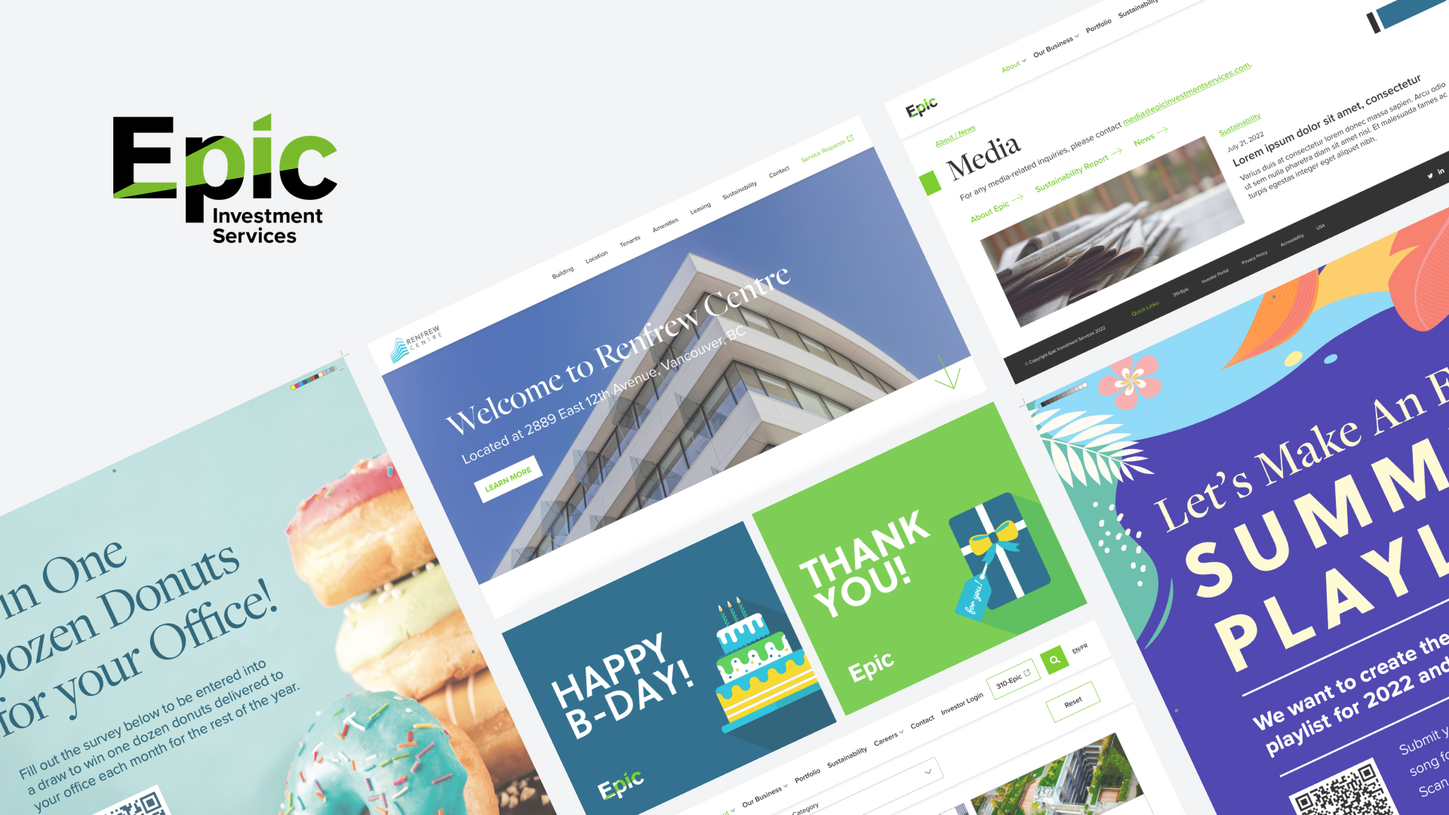
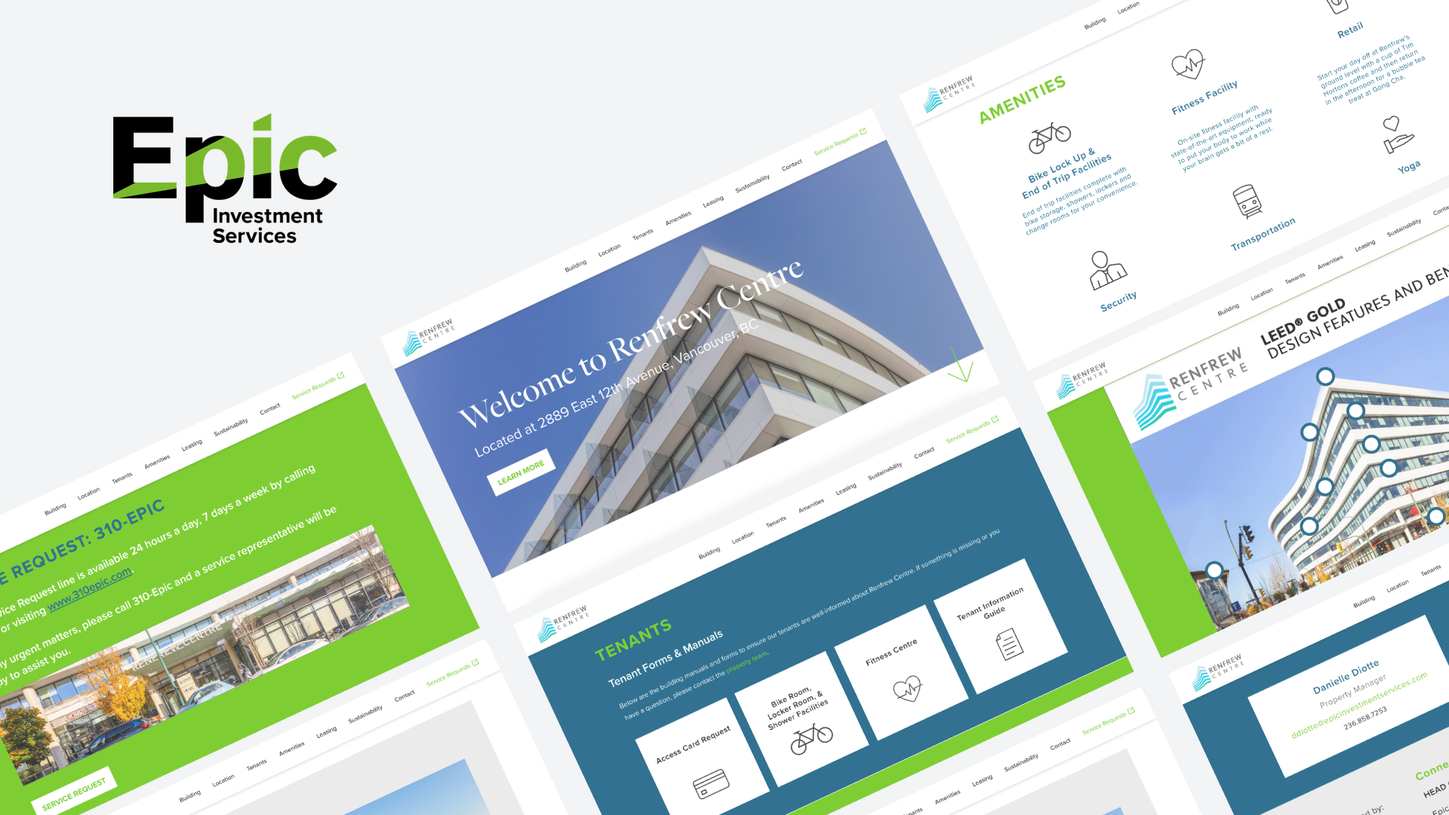
Updated the Epic page amongst other pages

diff --git a/epic.html b/epic.html
@@ -46,7 +46,7 @@
         </header>
 
         <div class = "container text-left">
-            <h1>Epic Investment Services</h1>
+            <h1>Epic Investment Services: Renfrew Centre Website</h1>
             <br>
             <img src = "media/epicCover.jpg" class = "amacssCoverPic">
             <hr>
@@ -63,21 +63,19 @@
                 <h4>Skills</h4>
                 <ul style = "list-style-type:none;">
                     <li>Branding</li>
-                    <li>Graphic Design</li>
-                    <li>Prototpying</li>
+                    <li>Prototyping</li>
                     <li>UI/UX Design</li>
+                    <li>Web Design</li>
                 </ul>  
             </div>
             <div class = "column1">
                 <h4>Tools</h4>
                 <ul style = "list-style-type:none;">
-                    <li>InDesign</li>
-                    <li>Photoshop</li>
+                    <li>Illustrator</li>
                     <li>Adobe XD</li>
-                    <li>Wordpress</li>
                 </ul>  
             </div>
-            <br><br><br><br><br><br><br><br>
+            <br><br><br><br><br><br><br>
             <hr>
             <br><br>
             <p>
@@ -87,16 +85,110 @@
                 In this role, I designed various graphics, branded merch, wayfinding signage, and web pages. I had the opportunity to work on multimedia projects with a dedicated team and gained valuable experience in corporate design + branding.
             </p>
             <br><br>
-            <h2>Renfrew Centre website</h2>
+            <h2>Introduction - Renfrew Centre</h2>
             <br>
             <p>
-                One of the highlights of my co-op at Epic was redesigning the website for the Renfrew Centre, one of Epic's retail properties. I had the chance to lead the redesign from conception to creating the final prototype.
-                During the length of this project, I worked closely with the property manager, VP of Marketing and Communications, and developer.
+                One of the highlights of my co-op at Epic was redesigning the website for the Renfrew Centre, one of Epic's properties. I had the chance to lead the redesign from conception to designing the final prototype.
+                During the length of this project, I worked closely with the Property Manager (PM), VP of Marketing & Communications, Communications Specialist, and Developer.
+            </p>
+            <br><br>
+            <h2>Problem</h2>
+            <br>
+            <p>
+                There were two main problems that we were tackling with the Renfrew Centre: <br><br>1) <b><b>Revitalization of Renfrew's image</b></b><br>2) <b><b>Website redesign</b></b><br><br>
+                First, we were looking to modernize Renfrew's image. To do this, we discussed different elements from the colour palette to the different fonts to be used. 
+                I also redesigned the logo to simplify it while retaining a core part of what makes Renfrew so recognizable, which is its unique building silhouette. 
+                However, it was also important to tie in the Epic branding into the website so that it was clear that this is an Epic property site.
+                <br><br>Second, the existing Renfrew website was due for a redesign. Tenants could not find the information they were looking for, and the visual design of the website did not align with the Epic branding.
+            </p>
+            <br><br>
+            <h2>Process</h2>
+            <br>
+            <p>For this project, I followed a five-step process as follows:</p>
+            <img src = "media/epic-process.jpg" class = "amacssCoverPic">
+            <h2>Research</h2>
+            <br>
+            <p>
+                In discussions with the PM, she helped us to narrow down 3 key areas that she noticed tenants had pain points with.
+                These became the main insights that we aimed to address with the new design.
             </p>
             <br>
-            <p>If you're interested in checking out the final product, you can visit the website <a href = "https://renfrewcentre.ca" target = "_blank">here</a>!</p>
+            <img src = "media/epic-insights.jpg" class = "amacssCoverPic">
+            <h5>Competitive analysis</h5>
+            <br>
+            <p>
+                Beyond speaking with the PM as a proxy for speaking with tenants directly for their feedback, we also examined existing Epic property sites to observe common features
+                as well as the order that information was presented.
+                <br><br>
+                Specifically, I looked at the websites for Centre 10 and HSBC Place, two other Epic properties. From exploring both sites, I noted the following key takeaways:
+                <br><br>- <b><b>Similar menu bar</b></b>: the content can be broken down into information about the building, tenants, sustainability, etc.
+                <br>- <b><b>Differing complexities</b></b>: the Centre 10 website was a single-page scroll with anchors at different sections while the HSBC Place website had different pages to separate the content
+                <br>- <b><b>Epic branding</b></b>: in addition to using Epic colours and fonts, the brand icons were also used throughout both websites, particularly in the sustainability section
+            </p>
             <br><br>
-            <h2>Other projects</h2>
+            <h5>Problem statement</h5>
+            <br>
+            <p>With the research complete, a problem statement was created to help guide the rest of the design process:</p>
+            <br>
+            <p style = "text-align:center;"><i>How might we reimagine the Renfrew Centre website so that it is more intuitive to navigate and engaging to tenants?</i></p>
+            <br><br>
+            <h2>Ideation</h2>
+            <br>
+            <p>
+                One of the main objectives of this project was to enhance the navigation experience for users. The old site not only had outdated information 
+                but it was also difficult for tenants to find the section of information that they were looking for, as noted by the PM.
+            </p>
+            <br><br>
+            <h5>Single- or multi-page?</h5>
+            <br>
+            <p>
+                Therefore, one of the first decisions to be made was whether to stick with a single-page scroll or switch to a multi-page design. Ultimately, <b><b>simplicity was highly valued</b></b> for this project. 
+                <br><br>
+                Other factors that were considered included the subject of the website and the ease of moving from one section of information to another. Since this website was focused solely on one subject, the Renfrew Centre, 
+                separating the limited content into multiple pages wasn't necessary as the content could be condensed onto a single page. Additionally, the use of a fixed menu bar and a single-page scroll allows the user to navigate from 
+                one section of information to another more quickly without loading a new page.
+            </p>
+            <br><br>
+            <h5>Lo-fi wireframes</h5>
+            <br>
+            <p>
+                Following the decision to use a single-page scroll design, I had a brief idea of the layout of the website from the other Epic sites, so I sketched some low-fidelity wireframes on paper.
+            </p>
+            <br><br>
+            <h2>Prototype</h2>
+            <br>
+            <p>
+                The high-fidelity prototype was created on XD and several iterations of the website were presented to stakeholders. If you'd like to play around with one of these iterations, 
+                you can check out one of the prototypes <a href = "https://xd.adobe.com/view/7e72a8e4-78ce-4f71-94e5-96f57cdc53e5-2b21/?fullscreen" target = "_blank">here</a>!
+                <br><br>
+                A few parts of the website that I wanted to highlight:
+            </p>
+            <img src = "media/epic-proto1.jpg" class = "amacssCoverPic">
+            <img src = "media/epic-proto4.jpg" class = "amacssCoverPic">
+            <img src = "media/epic-proto2.jpg" class = "amacssCoverPic">
+            <img src = "media/epic-proto3.jpg" class = "amacssCoverPic">
+            <h2>Development</h2>
+            <br>
+            <p>
+                Although my co-op work term ended before the development stage fully started, I was able to finish the final iteration of the design and hand it off.
+                If you're interested in checking out the newly designed Renfrew Centre website, you can visit it <a href = "https://renfrewcentre.ca" target = "_blank">here</a>!
+            </p>
+            <br><br>
+            <h2>Reflection</h2>
+            <br>
+            <p>
+                This was my first time leading a design project end-to-end while working with a cross-functional team as the sole designer. Through this experience, I was able to practice aligning my designs to fit business needs and objectives.
+                This project also gave me the creative freedom to completely redesign a website within corporate brand guidelines, which was a new and insightful experience for me as well.
+                <br><br> 
+                Overall, I'm super grateful for the trust that my manager put into me for taking this project on, and it was really great to see the finished website and how closely it resembled my design :)
+            </p>
+            <br><br>
+            <h2>Other projects from that summer</h2>
+            <br>
+            <p>
+                Beyond the Renfrew redesign, I also had the chance to work a variety of other projects, such as reimagining the Epic corporate site, 
+                designing company greeting cards, and creating graphics for Epic's many events.
+            </p>
             <br>
             <div class = "illo">
                 <img src = "media/epic-media1.png">
@@ -110,8 +202,10 @@
             <h2>Thank you 💚</h2>
             <br>
             <p>
-                To Jessica, my manager, for providing numerous opportunities to me and supporting my growth. To Jenny for her incredible patience and guidance. To the entire Marketing & Comms team for making my summer so enjoyable!  
+                To Jessica, my manager, for providing numerous opportunities to me and supporting my growth. To Jenny for her incredible patience and guidance. 
+                To the entire Marketing & Comms team for making my summer so enjoyable!
             </p>
+            <br>
         </div>
         <br><br>
         

diff --git a/groo.html b/groo.html
@@ -103,7 +103,7 @@
             <img src = "media/process.jpg" class = "amacssCoverPic">
             <h2>Research</h2>
             <br>
-            <p> Next, with a problem narrowed down, I completed a competitive analysis and conducted both quantitative and qualitative research to gain a better understanding of the problem at hand.</p>
+            <p> Next, with a problem narrowed down, I completed a competitive analysis and conducted both quantitative and qualitative research to validate the problem at hand.</p>
             <br>
             <h5>Survey</h5>
             <br>
@@ -135,11 +135,11 @@
             <br>
             <p>
                 From the competitive analysis, I realized that there were apps on the market that offered a gamified experience in managing personal finances. However, while researching for the analysis above, I came across
-                numerous complaints from users that they had to make <b>small purchases on the app in order to enjoy the full gamified experience</b> which went against the nature of the app as a budgeting tool.
+                numerous complaints from users that they had to make <b><b>small purchases on the app in order to enjoy the full gamified experience</b></b> which went against the nature of the app as a budgeting tool.
                 <br><br>
-                Additionally, users often value a <b>simple and intuitive user interface</b> as it allows for them to interact with the app more easily.
+                Additionally, users often value a <b><b>simple and intuitive user interface</b></b> as it allows for them to interact with the app more easily.
                 <br><br>
-                Finally, although there was some discontentment with manually tracking each expense, users also appreciated how they were <b>not required to connect their bank account</b> to the app, which some felt was unsecure.
+                Finally, although there was some discontentment with manually tracking each expense, users also appreciated how they were <b><b>not required to connect their bank account</b></b> to the app, which some felt was unsecure.
             </p>
             <br><br>
             <h5>User persona</h5>
@@ -166,14 +166,14 @@
             <p>To help better identify what features were needed, I created a few user stories based on the comments and feedback I gathered during the interviews.</p>
             <img src = "media/stories.jpg" class = "amacssCoverPic">
             <p>
-                In order to visualize the progress that the user was making, I went with a plant theme so that the user will be <b>collecting various plants to build their "forest"</b>.
+                In order to visualize the progress that the user was making, I went with a plant theme so that the user will be <b><b>collecting various plants to build their "forest"</b></b>.
                 The act of collecting items is the element of gamification that I included. This element is often seen in many games, whether it's collecting coins, characters, clothes, etc.
                 In addition, once I decided on the plant theme, I also started brainstorming for the name, and ultimately decided on "groo", which is a homophone to "grew".
                 <br><br>
-                To view the breakdown of their expenses, users will have access to an analytics section of the app, where <b>expenses will be categorized and the percentage of the category to the total will be shown</b>.
+                To view the breakdown of their expenses, users will have access to an analytics section of the app, where <b><b>expenses will be categorized and the percentage of the category to the total will be shown</b></b>.
                 Users can filter the expense breakdown by day, week, or month.
                 <br><br>
-                For goal-setting, users will have the chance to <b>set goals during their onboarding process and track their progress</b> as they continue to use the app.
+                For goal-setting, users will have the chance to <b><b>set goals during their onboarding process and track their progress</b></b> as they continue to use the app.
                 Additionally, groo will have a number of different tasks that are updated regularly for users to complete, which are small goals that are set by the app.
                 Completion of goals will result in various number of plants as an award.
             </p>
@@ -197,7 +197,7 @@
             <br>
             <p>
                 When I envisioned how my app would look like, I knew that I wanted it to include a number of illustrations. They would help to reinforce the plant theme while also giving the app a more playful and friendly image.
-                Below are three screens from the app (minus any text, buttons, etc.) with some illustrations!
+                Below are three screens from the app (minus any text, buttons, etc.) with some illustrations.
             </p>
             <br>
             <img src = "media/illo1.jpg" class = "illustrations">
@@ -226,18 +226,18 @@
             <h2>Takeaways</h2>
             <br>
             <p>
-                1. <b>You don't have to reinvent the wheel every time</b> — I spent a lot of time at the beginning of the pitchathon brainstorming different app ideas that I could pursue. I'd wanted to create something that would blow the judges away with its originality.
+                1. <b><b>You don't have to reinvent the wheel every time</b></b> — I spent a lot of time at the beginning of the pitchathon brainstorming different app ideas that I could pursue. I'd wanted to create something that would blow the judges away with its originality.
                 It was only after a day or two of this sort of mindset did I realize that this wasn't the only way to come up with a good idea. Sometimes it's about taking an existing idea and putting your own spin on it while finding a better way to do things.
             </p>
             <br>
             <p>
-                2. <b>Let your users help you</b> — After conducting the survey and the interviews, I gained a significantly deeper understanding of what users are looking for in a financial app and what pain points they face with existing ones. This data helped me to determine
+                2. <b><b>Let your users help you</b></b> — After conducting the survey and the interviews, I gained a significantly deeper understanding of what users are looking for in a financial app and what pain points they face with existing ones. This data helped me to determine
                 what features I should include in groo. Although this takeaway might seem obvious, this project was one of the first times that I've gotten the chance to conduct user research (besides what I've done during my co-op work term). It was still amazing to me how imperative
                 it is to involve users throughout the design process and how drastically it can change your final product.
             </p>
             <br>
             <p>
-                3. <b>Build a project plan to guide you</b> — Once I'd decided upon an app idea, I created a project plan on Excel to help organize the tasks I needed to complete, the deliverables I needed to create, as well as the timeline I needed to follow. For a project like this that
+                3. <b><b>Build a project plan to guide you</b></b> — Once I'd decided upon an app idea, I created a project plan on Excel to help organize the tasks I needed to complete, the deliverables I needed to create, as well as the timeline I needed to follow. For a project like this that
                 required me to finish before a strict deadline, a project plan gave me much needed guidance while allowing for some flexibility. Although this took some time in the beginning stages
                 of the competition, it paid off in the end by helping me to ensure that I wasn't missing any pieces of work. It also held me accountable for the most part in finishing everything I needed to do within the allocated time.
             </p>

diff --git a/caseware.html b/caseware.html
@@ -83,10 +83,8 @@
                 I spent 8 months working at <a href = "https://www.caseware.com/" target = "_blank">Caseware</a>, a FinTech company that helps businesses in the accounting and auditing industry work more efficiently and derive insights
                 with its software solutions. From January to August of 2021, I worked on the Smart Engagements team at Caseware as a UX Designer Co-op.
                 <br><br>
-                In this role, I focused on projects that revolved around <b>automating
-                accounting and audit processes</b> to allow our users to complete their tasks faster and with less repetition. I also had the chance to work on design projects for our internal design team that
-                explored our design process and identified our values as a group.
-                
+                In this role, I focused on projects that revolved around <b><b>automating accounting and audit processes</b></b> to allow our users to complete their tasks faster and with less repetition. 
+                I also had the chance to work on design projects for our internal design team that explored our design process and identified our values as a group.
                 <br><br>
                 While the projects I worked on during my co-op are under an NDA, feel free to reach out to me and I'd be happy to talk about my experience at Caseware!
             </p>
@@ -94,18 +92,18 @@
             <h2>Takeaways</h2>
             <br>
             <p>
-                1. <b>Ask every question - even the ones you think are dumb</b> - As someone who was completely new to UX design, I was able to learn so much from coffee chats to team meetings to one-on-ones. 
+                1. <b><b>Ask every question - even the ones you think are dumb</b></b> - As someone who was completely new to UX design, I was able to learn so much from coffee chats to team meetings to one-on-ones. 
                 There were many times when I didn’t understand something and my first instinct was to wait it out and see if I could figure it out from the context of the conversation. 
                 It honestly took many tries for me to muster up the courage to ask what I didn’t know, but I’m so glad I did because it gave me the clarity I needed to perform my job well.
             </p>
             <br>
             <p>
-                2. <b>Be flexible and prepare for change</b> - During the time that I worked at Caseware, there were many internal changes. While this was an exciting time at the company overall, 
+                2. <b><b>Be flexible and prepare for change</b></b> - During the time that I worked at Caseware, there were many internal changes. While this was an exciting time at the company overall, 
                 there were also many emotional moments. It taught me the importantance of not being overly attached to anything, and to just enjoy the current situation as it was while it lasted.
             </p>
             <br>
             <p>
-                3. <b>Try everything</b> - As this was my first UX job, there were so many firsts for me throughout the 8 months. It was my first time working with other UX designers, developers, and a product team; 
+                3. <b><b>Try everything</b></b> - As this was my first UX job, there were so many firsts for me throughout the 8 months. It was my first time working with other UX designers, developers, and a product team; 
                 my first time presenting my designs and ideas to stakeholders; and my first time working in a professional design environment. I was given the opportunity to take part in everything from usability testing, 
                 to journey mapping, to building the final prototype. These experiences taught me an incredible amount about the responsibilities of a UX designer as well as which areas I find myself gravitating towards. 
             </p>

diff --git a/play.html b/play.html
@@ -50,8 +50,8 @@
             <br><br>
             <h3>AMACSS - 2020-2021</h3>
             <p>
-                During my time in university, I was part of AMACSS, or The Association of Mathematical and Computer Science Students, 
-                at the University of Toronto Scarborough as a designer. Here are a few of the posters (created with Illustrator!) that I worked on:
+                During my time in university, I was a designer at AMACSS, or The Association of Mathematical and Computer Science Students, 
+                at the University of Toronto Scarborough. Here are a few of the designs that I worked on:
             </p>
             <br>
             <div class = "illo">
@@ -63,8 +63,8 @@
             <br><br>
             <h3>MAPFO - Solution Challenge 2020</h3>
             <p>
-                In early 2020, I particpated in the Solution Challenge in collaboration with 3 other team members.
-                As the designer of the team, part of my responsibilities included creating the <a href = "https://youtu.be/xpMaxu-9gig" target = "_blank">video</a> that explains our solution to a local community problem.
+                In early 2020, I participated in the Solution Challenge in collaboration with 3 other team members.
+                As the designer of the team, one of my responsibilities was to create the <a href = "https://youtu.be/xpMaxu-9gig" target = "_blank">video</a> that explains our solution to a local community problem.
                 The following are a few of the illustrations that I created for the video:
             </p>
             <br>

diff --git a/about.html b/about.html
@@ -49,10 +49,10 @@
             <h3>Hi there, I'm Sharon!</h3>
             <img src = "media/me.jpg" class = "me">
             <h4>
-                I'm a UX designer with 2+ years of experience who's passionate about building digital products with a human-centred approach. During this time, I've worked in the FinTech, real estate, education, and non-profit industries.
+                I'm a UX designer with 2+ years of experience who's passionate about building digital products with a human-centred approach. During this time, I've worked in the FinTech, real estate, and non-profit industries.
                 Currently, I'm designing at helloart, an art-tech company that is reimagining the art discovery and buying experience.
                 <br><br>
-                When I'm not designing, you can find me working my way through my long list of books to read, exploring the world of Zelda, or trying out new restaurants.
+                When I'm not designing, you can find me working my way through my long list of books to read, learning new languages on Duolingo, or drinking too much bubble tea.
                 <br><br>
                 With so much to learn, I'm always open to exploring new opportunities. If you've made it this far, let's 
                 <a href = "mailto:sharon.xiao@mail.utoronto.ca" target = "_blank">chat</a>!

diff --git a/index.html b/index.html
@@ -64,13 +64,13 @@
             <a href = "groo.html"><h4>groo</h4></a>
             <h2>Using gamification to make smarter financial decisions.</h2>
             <br><br><br>
-            <h5>UI/UX Design ✧ Graphic Design ✧ Web Design</h5>
-            <a href = "epic.html"><img src = "media/epic-home.jpg" class = "bigPic"></a>
+            <h5>UI/UX Design ✧ Web Design ✧ Graphic Design</h5>
+            <a href = "epic.html"><img src = "media/epic.jpg" class = "bigPic"></a>
             <a href = "epic.html"><h4>Epic Investment Services</h4></a>
             <h2>Improving tenant experience in commercial real estate at Epic.</h2>
             <br><br><br>
             <h5>UI/UX Design ✧ Product Design</h5>
-            <a href = "caseware.html"><img src = "media/caseware-home.jpg" class = "bigPic"></a>
+            <a href = "caseware.html"><img src = "media/caseware2-home.jpg" class = "bigPic"></a>
             <a href = "caseware.html"><h4>Caseware</h4></a>
             <h2>Reflecting on my experience and learnings at Caseware.</h2>
         </div><br><br><br><br>

diff --git a/amacss.css b/amacss.css
@@ -98,7 +98,7 @@ h1 {
 
 h2 {
     font-family: 'Inter', sans-serif;
-    font-size: 24px;
+    font-size: 30px;
     margin: 0;
     color: #000000;
     font-weight: 500;
@@ -133,8 +133,8 @@ h5 {
     font-family: 'Inter', sans-serif;
     font-size: 20px;
     margin: 0;
-    color: #505050;
-    font-weight: 300;
+    color: #5A7C58;
+    font-weight: 500;
     padding-left: 5%;
     padding-right: 5%;
 }

diff --git a/play.css b/play.css
@@ -111,8 +111,8 @@ h3 {
     font-family: 'Inter', sans-serif;
     font-size: 18px;
     margin: 0;
-    color: #686666;
-    font-weight: 300;
+    color: #5A7C58;
+    font-weight: 500;
     padding-left: 5%;
     padding-bottom: 1%;
     white-space: pre;
